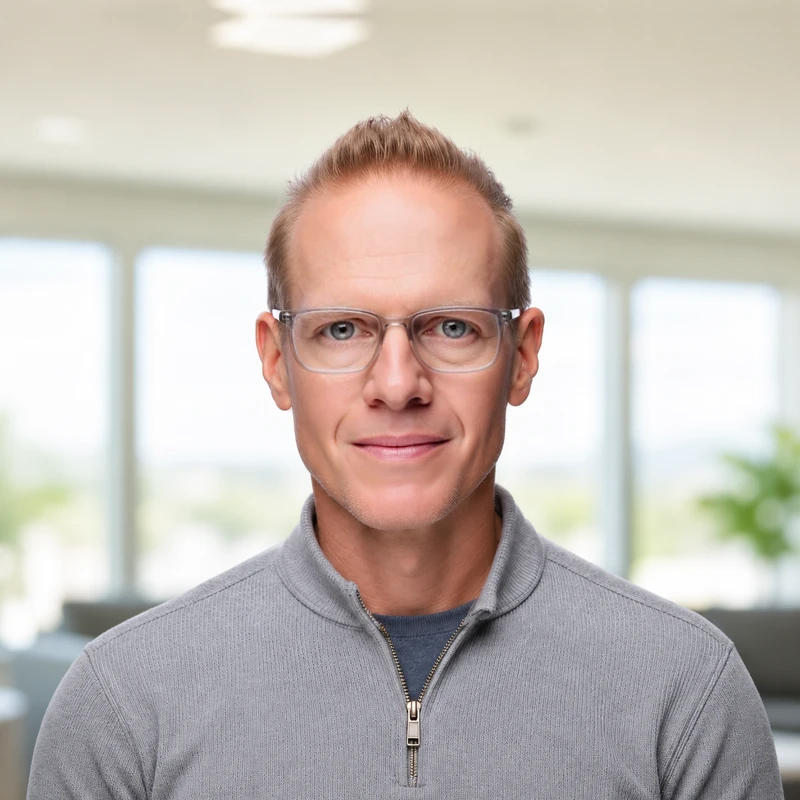
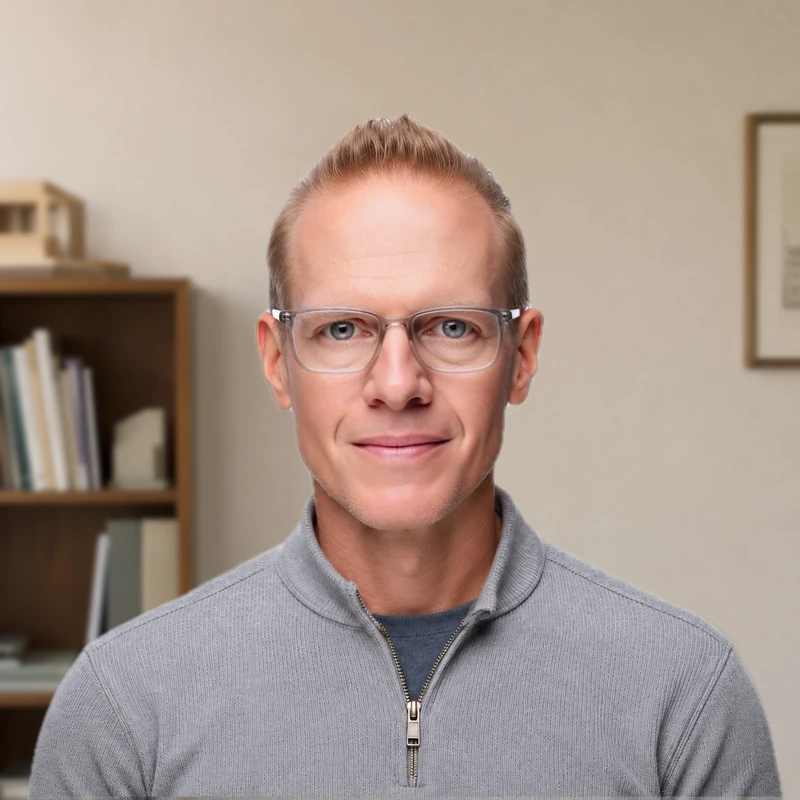
Give Michael a distinct office background

diff --git a/about/index.html b/about/index.html
@@ -182,7 +182,7 @@
             </article>
 
             <article class="leader-card">
-              <img class="leader-card__photo" src="/assets/images/michael-centered.webp" alt="Portrait of Michael Stewart" loading="lazy" decoding="async" />
+              <img class="leader-card__photo" src="/assets/images/michael-centered.webp?v=office" alt="Portrait of Michael Stewart" loading="lazy" decoding="async" />
               <div>
                 <p class="leader-card__name">Michael Stewart</p>
                 <span class="leader-card__title">Principal</span>
